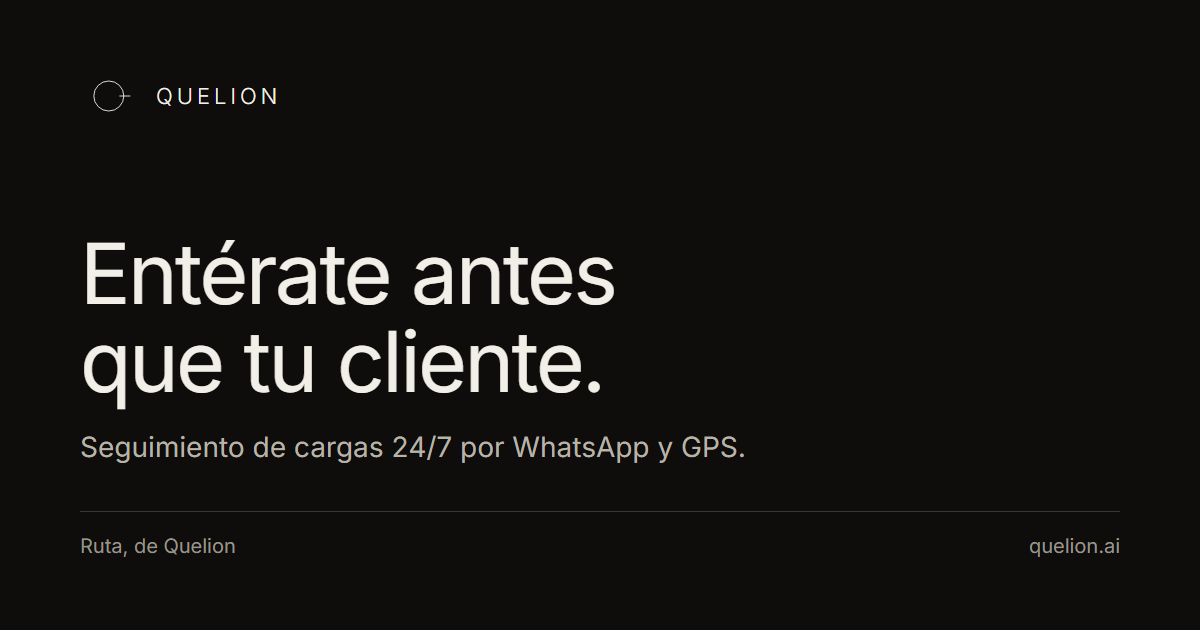
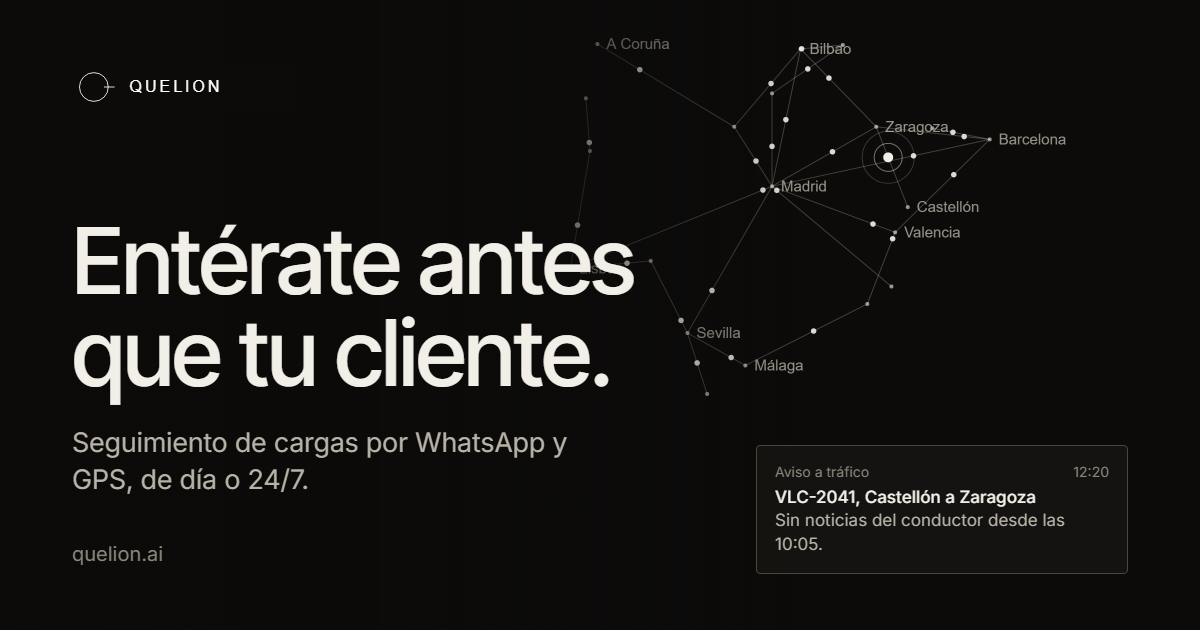
Página de Ruta con mapa de rutas y sección del conector para IA
- /ruta y /mx/ruta: mapa animado en la cabecera y sección «Ruta se conecta a la IA que ya usas».
- Imágenes de vista previa al compartir con el mapa, con versión para México.
- Cómo empezar: la puesta en marcha se cotiza aparte en la propuesta.

diff --git a/mx/ruta.html b/mx/ruta.html
@@ -11,7 +11,7 @@
   <link rel="alternate" hreflang="en" href="https://quelion.ai/ruta-en">
   <link rel="alternate" hreflang="x-default" href="https://quelion.ai/ruta">
   <meta property="og:title" content="Ruta · Entérate antes que tu cliente">
-  <meta property="og:image" content="https://quelion.ai/assets/og/og-ruta.png">
+  <meta property="og:image" content="https://quelion.ai/assets/og/og-ruta-mx.png">
   <meta property="og:image:width" content="1200">
   <meta property="og:image:height" content="630">
   <meta property="og:image:alt" content="Ruta, de Quelion. Entérate antes que tu cliente.">
@@ -27,6 +27,7 @@
   <link rel="stylesheet" href="/assets/css/tokens.css?v=20261121">
   <link rel="stylesheet" href="/assets/css/global.css?v=20261121">
   <link rel="stylesheet" href="/assets/css/components.css?v=20261121">
+  <link rel="stylesheet" href="/assets/css/ruta.css?v=20261121">
   <script type="application/ld+json">
   {
     "@context": "https://schema.org",
@@ -156,7 +157,8 @@
   </nav>
 
   <!-- ── HERO ── -->
-  <section class="hero" aria-labelledby="hero-headline">
+  <section class="hero rp-hero" aria-labelledby="hero-headline">
+    <canvas id="mapa" aria-hidden="true"></canvas>
     <div class="hero-content">
       <p class="eyebrow hero-eyebrow">Ruta · de Quelion</p>
       <h1 id="hero-headline" class="hero-headline">
@@ -176,6 +178,10 @@
         </a>
       </div>
       <p class="hero-contact">Sin app para tus choferes &nbsp;·&nbsp; o escríbenos a hola@quelion.ai</p>
+    </div>
+    <div class="rp-ficha" id="ficha" aria-hidden="true">
+      <div class="h"><span>Aviso al coordinador</span><span>12:20</span></div>
+      <b>NLD-2041, Nuevo Laredo a Monterrey</b><span class="q">Sin noticias del chofer desde las 10:05.</span>
     </div>
   </section>
 
@@ -325,6 +331,33 @@
     </div>
   </section>
 
+  <!-- ── CONECTOR PARA TU IA ── -->
+  <section id="ia" class="rp-ia" aria-labelledby="ia-heading">
+    <div class="section-inner">
+      <div class="rp-ia-grid">
+        <div>
+          <h2 id="ia-heading">Ruta se conecta a la IA que ya usas.</h2>
+          <p class="rp-lede">Con el conector de Ruta, Claude o ChatGPT consultan tu operación y actúan sobre ella con tu permiso. Y si tu IA ya tiene conectados tu correo, tu calendario o tus hojas, puedes pedirle cosas que lo cruzan todo: «da de alta los embarques del correo de esta mañana y dime cuáles llegan después de su cita».</p>
+          <ul class="rp-puede">
+            <li><b>Consultar</b>Qué viajes van en riesgo, el historial de uno y las cifras del periodo.</li>
+            <li><b>Dar de alta</b>Un embarque o un lote entero, con las mismas validaciones que el tablero.</li>
+            <li><b>Corregir</b>Las citas de carga y de entrega, o el teléfono del chofer.</li>
+            <li><b>Pausar y reanudar</b>El seguimiento de un viaje, con motivo y fecha de fin.</li>
+          </ul>
+        </div>
+        <div class="rp-chat" role="img" aria-label="Conversación de ejemplo con una IA conectada a Ruta.">
+          <div class="rp-chat-cab"><b>Tu asistente de IA</b><span>Conversación de ejemplo</span></div>
+          <div class="rp-hilo">
+            <p class="tu">¿Qué viajes van sin noticias esta mañana?</p>
+            <div class="ella"><span class="usa"><i></i>Ruta, resumen de la operación</span><br>Uno: <b>NLD-2041</b>, Aceros del Bajío, en tránsito. Sin noticias del chofer desde las 10:05. Ruta le avisó a tu coordinador a las 12:20.</div>
+            <p class="tu">Da de alta los 12 embarques de este Excel.</p>
+            <div class="ella"><span class="usa"><i></i>Ruta, revisar un lote</span><br>Revisados los 12: <b>entran 11</b>. La fila 7 no trae el teléfono del chofer. ¿Confirmo los 11?</div>
+          </div>
+        </div>
+      </div>
+    </div>
+  </section>
+
   <!-- ── CÓMO EMPEZAR (ancla #pricing conservada para enlaces antiguos) ── -->
   <section id="pricing" style="border-top:1px solid var(--border-hairline);padding:80px 0;" aria-labelledby="pricing-heading">
     <div class="section-inner">
@@ -343,7 +376,7 @@
         <div style="background:var(--surface-primary);padding:32px 28px;">
           <p style="font-family:var(--font-sans);font-size:12px;font-weight:500;color:var(--text-tertiary);font-variant-numeric:tabular-nums;margin-bottom:12px;">03</p>
           <h3 style="font-size:14px;font-weight:600;margin-bottom:10px;">Con la propuesta aceptada, lo configuramos contigo</h3>
-          <p style="font-size:13px;color:var(--text-secondary);margin:0;line-height:1.7;">Tus reglas, tus contactos y tus tiempos de seguimiento, ensayados en el túnel de viento antes de que Ruta le escriba al primer chofer. La puesta en marcha va incluida.</p>
+          <p style="font-size:13px;color:var(--text-secondary);margin:0;line-height:1.7;">Tus reglas, tus contactos y tus tiempos de seguimiento, ensayados en el túnel de viento antes de que Ruta le escriba al primer chofer. La puesta en marcha se cotiza aparte, en la misma propuesta.</p>
         </div>
       </div>
       <p style="font-size:13px;color:var(--text-quiet);margin-top:20px;">¿Prefieres escribir? <a href="mailto:hola@quelion.ai?subject=Agendar%2020%20minutos%20sobre%20Ruta" style="color:var(--text-primary);text-decoration:underline;">hola@quelion.ai</a></p>
@@ -498,6 +531,8 @@
     </div>
   </footer>
 
+  <script>window.MAPA_REGION = {"lat0":24,"C":{"Monterrey":[25.67,-100.31],"Nuevo Laredo":[27.48,-99.52],"CDMX":[19.43,-99.13],"Guadalajara":[20.67,-103.35],"Querétaro":[20.59,-100.39],"Saltillo":[25.42,-101],"San Luis Potosí":[22.15,-100.98],"Puebla":[19.04,-98.2],"Veracruz":[19.17,-96.13],"León":[21.12,-101.68],"Torreón":[25.54,-103.42],"Chihuahua":[28.63,-106.07],"Ciudad Juárez":[31.69,-106.42],"Tijuana":[32.51,-117.04],"Hermosillo":[29.07,-110.96],"Nogales":[31.31,-110.94],"Reynosa":[26.09,-98.28],"Culiacán":[24.81,-107.39],"Mazatlán":[23.25,-106.41],"Manzanillo":[19.05,-104.32],"Lázaro Cárdenas":[17.96,-102.19],"Mérida":[20.97,-89.62],"Aguascalientes":[21.88,-102.29],"Altamira":[22.39,-97.94]},"R":[["Nuevo Laredo","Monterrey"],["Monterrey","Saltillo"],["Saltillo","San Luis Potosí"],["San Luis Potosí","Querétaro"],["Querétaro","CDMX"],["CDMX","Puebla"],["Puebla","Veracruz"],["León","Querétaro"],["Guadalajara","León"],["Guadalajara","Manzanillo"],["Guadalajara","CDMX"],["Torreón","Saltillo"],["Chihuahua","Torreón"],["Ciudad Juárez","Chihuahua"],["Hermosillo","Nogales"],["Culiacán","Hermosillo"],["Mazatlán","Culiacán"],["Guadalajara","Mazatlán"],["Tijuana","Hermosillo"],["Reynosa","Monterrey"],["Altamira","San Luis Potosí"],["Lázaro Cárdenas","CDMX"],["Mérida","Veracruz"],["Aguascalientes","León"],["Aguascalientes","San Luis Potosí"],["Monterrey","Torreón"]],"rotulos":["Monterrey","Nuevo Laredo","CDMX","Guadalajara","Querétaro","Ciudad Juárez","Tijuana","Veracruz","Mérida","Manzanillo"],"rotulosMovil":["Monterrey","Nuevo Laredo","CDMX","Ciudad Juárez","Tijuana","Mérida"],"foco":["Nuevo Laredo","Monterrey"]};</script>
+  <script src="/assets/js/mapa-vivo.js?v=20261121" defer></script>
   <script src="/assets/js/main.js?v=20260926"></script>
 </body>
 </html>

diff --git a/ruta.html b/ruta.html
@@ -27,6 +27,7 @@
   <link rel="stylesheet" href="assets/css/tokens.css?v=20261121">
   <link rel="stylesheet" href="assets/css/global.css?v=20261121">
   <link rel="stylesheet" href="assets/css/components.css?v=20261121">
+  <link rel="stylesheet" href="assets/css/ruta.css?v=20261121">
   <script type="application/ld+json">
   {
     "@context": "https://schema.org",
@@ -149,7 +150,8 @@
   </nav>
 
   <!-- ── HERO ── -->
-  <section class="hero" aria-labelledby="hero-headline">
+  <section class="hero rp-hero" aria-labelledby="hero-headline">
+    <canvas id="mapa" aria-hidden="true"></canvas>
     <div class="hero-content">
       <p class="eyebrow hero-eyebrow">Ruta · de Quelion</p>
       <h1 id="hero-headline" class="hero-headline">
@@ -169,6 +171,10 @@
         </a>
       </div>
       <p class="hero-contact">Sin app para tus conductores &nbsp;·&nbsp; o escríbenos a hola@quelion.ai</p>
+    </div>
+    <div class="rp-ficha" id="ficha" aria-hidden="true">
+      <div class="h"><span>Aviso a tráfico</span><span>12:20</span></div>
+      <b>VLC-2041, Castellón a Zaragoza</b><span class="q">Sin noticias del conductor desde las 10:05.</span>
     </div>
   </section>
 
@@ -317,6 +323,33 @@
     </div>
   </section>
 
+  <!-- ── CONECTOR PARA TU IA ── -->
+  <section id="ia" class="rp-ia" aria-labelledby="ia-heading">
+    <div class="section-inner">
+      <div class="rp-ia-grid">
+        <div>
+          <h2 id="ia-heading">Ruta se conecta a la IA que ya usas.</h2>
+          <p class="rp-lede">Con el conector de Ruta, Claude o ChatGPT consultan tu operación y actúan sobre ella con tu permiso. Y si tu IA ya tiene conectados tu correo, tu calendario o tus hojas, puedes pedirle cosas que lo cruzan todo: «da de alta las cargas del correo de esta mañana y dime cuáles llegan después de su cita».</p>
+          <ul class="rp-puede">
+            <li><b>Consultar</b>Qué cargas van en riesgo, el historial de una y las cifras del periodo.</li>
+            <li><b>Dar de alta</b>Una carga o un lote entero, con las mismas validaciones que el panel.</li>
+            <li><b>Corregir</b>Las citas de carga y de entrega, o el teléfono del conductor.</li>
+            <li><b>Pausar y reanudar</b>El seguimiento de una carga, con motivo y fecha de fin.</li>
+          </ul>
+        </div>
+        <div class="rp-chat" role="img" aria-label="Conversación de ejemplo con una IA conectada a Ruta.">
+          <div class="rp-chat-cab"><b>Tu asistente de IA</b><span>Conversación de ejemplo</span></div>
+          <div class="rp-hilo">
+            <p class="tu">¿Qué cargas van sin noticias esta mañana?</p>
+            <div class="ella"><span class="usa"><i></i>Ruta, resumen de la operación</span><br>Una: <b>VLC-2041</b>, Cerámicas Levante, en tránsito. Sin noticias del conductor desde las 10:05. Ruta avisó a tráfico a las 12:20.</div>
+            <p class="tu">Da de alta las 12 cargas de este Excel.</p>
+            <div class="ella"><span class="usa"><i></i>Ruta, revisar un lote</span><br>Revisadas las 12: <b>entran 11</b>. La fila 7 no trae el teléfono del conductor. ¿Confirmo las 11?</div>
+          </div>
+        </div>
+      </div>
+    </div>
+  </section>
+
   <!-- ── CÓMO EMPEZAR (ancla #pricing conservada para enlaces antiguos) ── -->
   <section id="pricing" style="border-top:1px solid var(--border-hairline);padding:80px 0;" aria-labelledby="pricing-heading">
     <div class="section-inner">
@@ -335,7 +368,7 @@
         <div style="background:var(--surface-primary);padding:32px 28px;">
           <p style="font-family:var(--font-sans);font-size:12px;font-weight:500;color:var(--text-tertiary);font-variant-numeric:tabular-nums;margin-bottom:12px;">03</p>
           <h3 style="font-size:14px;font-weight:600;margin-bottom:10px;">Con la propuesta aceptada, lo configuramos contigo</h3>
-          <p style="font-size:13px;color:var(--text-secondary);margin:0;line-height:1.7;">Tus reglas, tus contactos y tus tiempos de seguimiento, ensayados en el túnel de viento antes de que Ruta escriba al primer conductor. La puesta en marcha va incluida.</p>
+          <p style="font-size:13px;color:var(--text-secondary);margin:0;line-height:1.7;">Tus reglas, tus contactos y tus tiempos de seguimiento, ensayados en el túnel de viento antes de que Ruta escriba al primer conductor. La puesta en marcha se cotiza aparte, en la misma propuesta.</p>
         </div>
       </div>
       <p style="font-size:13px;color:var(--text-quiet);margin-top:20px;">¿Prefieres escribir? <a href="mailto:hola@quelion.ai?subject=Agendar%2020%20minutos%20sobre%20Ruta" style="color:var(--text-primary);text-decoration:underline;">hola@quelion.ai</a></p>
@@ -483,6 +516,8 @@
     </div>
   </footer>
 
+  <script>window.MAPA_REGION = {"lat0":40,"C":{"Madrid":[40.42,-3.7],"Barcelona":[41.39,2.17],"Valencia":[39.47,-0.38],"Sevilla":[37.39,-5.98],"Zaragoza":[41.65,-0.89],"Bilbao":[43.26,-2.93],"Málaga":[36.72,-4.42],"Murcia":[37.99,-1.13],"Valladolid":[41.65,-4.72],"A Coruña":[43.36,-8.41],"Lisboa":[38.72,-9.14],"Oporto":[41.15,-8.61],"Castellón":[39.99,-0.04],"Lleida":[41.62,0.62],"Vigo":[42.24,-8.72],"Alicante":[38.35,-0.48],"Burgos":[42.34,-3.7],"Irún":[43.34,-1.79],"Algeciras":[36.13,-5.45],"Badajoz":[38.88,-6.97]},"R":[["Madrid","Barcelona"],["Madrid","Valencia"],["Madrid","Sevilla"],["Madrid","Bilbao"],["Madrid","Lisboa"],["Madrid","Valladolid"],["Barcelona","Valencia"],["Valencia","Murcia"],["Murcia","Málaga"],["Sevilla","Málaga"],["Zaragoza","Barcelona"],["Zaragoza","Madrid"],["Castellón","Zaragoza"],["Lleida","Barcelona"],["Bilbao","Valladolid"],["Bilbao","Irún"],["Burgos","Irún"],["Valladolid","A Coruña"],["Vigo","Oporto"],["Oporto","Lisboa"],["Sevilla","Badajoz"],["Badajoz","Lisboa"],["Algeciras","Sevilla"],["Alicante","Madrid"],["Burgos","Madrid"],["Zaragoza","Bilbao"]],"rotulos":["Madrid","Barcelona","Valencia","Sevilla","Zaragoza","Bilbao","Málaga","Lisboa","A Coruña","Castellón"],"rotulosMovil":["Madrid","Barcelona","Valencia","Sevilla","Bilbao","Lisboa","A Coruña","Castellón","Málaga"],"foco":["Castellón","Zaragoza"]};</script>
+  <script src="assets/js/mapa-vivo.js?v=20261121" defer></script>
   <script src="assets/js/main.js?v=20260926"></script>
 </body>
 </html>

diff --git a/assets/css/ruta.css b/assets/css/ruta.css
@@ -1,0 +1,58 @@
+/* Página de Ruta: mapa vivo en la cabecera y sección del conector. Solo tokens de tokens.css. */
+
+/* ── Cabecera con mapa ── */
+.rp-hero { overflow: hidden; }
+.rp-hero canvas { position: absolute; inset: 0; width: 100%; height: 100%; }
+.rp-hero::after {
+  content: ""; position: absolute; inset: 0; pointer-events: none;
+  background:
+    linear-gradient(90deg, var(--surface-primary) 0%, rgb(12 11 10 / .88) 32%, rgb(12 11 10 / 0) 62%),
+    linear-gradient(0deg, var(--surface-primary) 0%, rgb(12 11 10 / 0) 24%);
+}
+.rp-hero .hero-headline { font-weight: var(--weight-medium); }
+.rp-ficha {
+  position: absolute; z-index: 3; right: var(--grid-margin); bottom: var(--sp-64); width: 310px;
+  background: rgb(21 20 18 / .86); backdrop-filter: blur(10px); -webkit-backdrop-filter: blur(10px);
+  border: 1px solid var(--border-divider); border-radius: var(--radius-sm);
+  padding: 14px 16px; font-size: 14px; line-height: 1.4;
+  opacity: 0; transform: translateY(8px);
+  transition: opacity 500ms cubic-bezier(.2,0,0,1), transform 500ms cubic-bezier(.2,0,0,1);
+}
+.rp-ficha.ver { opacity: 1; transform: none; }
+.rp-ficha .h { display: flex; justify-content: space-between; font-size: 12px; color: var(--text-tertiary); margin-bottom: 4px; font-variant-numeric: tabular-nums; }
+.rp-ficha b { font-weight: var(--weight-medium); display: block; }
+.rp-ficha .q { display: block; color: var(--text-secondary); }
+
+/* ── Conector para la IA ── */
+.rp-ia { border-top: 1px solid var(--border-hairline); padding: 80px 0; background: var(--surface-secondary); }
+.rp-ia-grid { display: grid; grid-template-columns: minmax(0, 1fr) minmax(0, 1fr); gap: var(--sp-64); align-items: start; }
+.section-inner > .rp-ia-grid { max-width: none; }
+.rp-ia h2 { max-width: 14em; margin-bottom: var(--sp-24); }
+.rp-ia .rp-lede { font-size: 15px; line-height: 1.7; color: var(--text-secondary); max-width: 34em; margin: 0; }
+.rp-puede { list-style: none; padding: 0; margin: var(--sp-48) 0 0; display: grid; grid-template-columns: repeat(2, minmax(0, 1fr)); gap: var(--sp-16) var(--sp-40); font-size: 14px; line-height: 1.6; color: var(--text-secondary); }
+.rp-puede li { padding-top: var(--sp-16); border-top: 1px solid var(--border-hairline); }
+.rp-puede b { display: block; color: var(--text-primary); font-weight: var(--weight-medium); }
+.rp-chat { background: var(--surface-elevated); border: 1px solid var(--border-hairline); border-radius: var(--radius-sm); overflow: hidden; }
+.rp-chat-cab { display: flex; justify-content: space-between; align-items: baseline; gap: var(--sp-16); padding: 14px 20px; border-bottom: 1px solid var(--border-hairline); }
+.rp-chat-cab b { font-size: 14px; font-weight: var(--weight-semibold); letter-spacing: -0.01em; }
+.rp-chat-cab span { font-size: 13px; color: var(--text-tertiary); }
+.rp-hilo { padding: 20px; display: flex; flex-direction: column; gap: 14px; }
+.rp-hilo .tu { align-self: flex-end; max-width: 86%; margin: 0; background: var(--color-ink-300); border-radius: 14px 14px 3px 14px; padding: 10px 14px; font-size: 15px; line-height: 1.45; }
+.rp-hilo .ella { max-width: 92%; font-size: 15px; line-height: 1.5; color: var(--text-secondary); }
+.rp-hilo .ella b { color: var(--text-primary); font-weight: var(--weight-medium); }
+.rp-hilo .usa { display: inline-flex; align-items: center; gap: 8px; font-family: var(--font-mono); font-size: 12px; color: var(--text-tertiary); border: 1px solid var(--border-hairline); border-radius: 999px; padding: 3px 10px; margin-bottom: 8px; }
+.rp-hilo .usa i { width: 6px; height: 6px; border-radius: 50%; background: var(--text-secondary); }
+
+@media (max-width: 859px) {
+  .rp-hero .hero-content { padding-top: 460px; }
+  .rp-hero::after { background: linear-gradient(0deg, var(--surface-primary) 50%, rgb(12 11 10 / .5) 68%, rgb(12 11 10 / 0) 100%); }
+  .rp-ficha { left: var(--grid-margin); right: var(--grid-margin); width: auto; top: 360px; bottom: auto; }
+  .rp-ia-grid { grid-template-columns: minmax(0, 1fr); gap: var(--sp-40); }
+  .rp-puede { margin-top: var(--sp-32); }
+}
+@media (max-width: 520px) {
+  .rp-puede { grid-template-columns: minmax(0, 1fr); }
+}
+@media (prefers-reduced-motion: reduce) {
+  .rp-ficha { transition: none; }
+}

diff --git a/assets/js/mapa-vivo.js b/assets/js/mapa-vivo.js
@@ -1,0 +1,49 @@
+/* Mapa vivo: proyección equirrectangular de las ciudades reales; rutas en línea fina; cargas como puntos.
+   Espera window.MAPA_REGION, un <canvas id="mapa"> y, si existe, una ficha #ficha que aparece con el aviso. */
+(() => {
+  const REGION = window.MAPA_REGION, cv = document.getElementById('mapa');
+  if (!REGION || !cv || !cv.getContext) return;
+  const { lat0, C, R, rotulos, rotulosMovil, foco } = REGION;
+  const ficha = document.getElementById('ficha'), cx = cv.getContext('2d');
+  const reducido = matchMedia('(prefers-reduced-motion: reduce)').matches;
+  let W = 0, H = 0, raf = 0, t0 = 0, P = {}, visible = true;
+  const cargas = R.map((r, i) => ({ r: i, v: 0.035 + (i * 37 % 11) / 400, f: (i * 0.37) % 1, d: i % 2 ? 1 : -1 }));
+  const iFoco = R.findIndex((r) => r[0] === foco[0] && r[1] === foco[1]);
+  function medir() {
+    const dpr = Math.min(devicePixelRatio || 1, 2);
+    W = cv.clientWidth; H = cv.clientHeight; cv.width = W * dpr; cv.height = H * dpr; cx.setTransform(dpr, 0, 0, dpr, 0, 0);
+    const k = Math.cos(lat0 * Math.PI / 180), xs = [], ys = [];
+    for (const n in C) { xs.push(C[n][1] * k); ys.push(-C[n][0]); }
+    const x0 = Math.min(...xs), x1 = Math.max(...xs), y0 = Math.min(...ys), y1 = Math.max(...ys);
+    const caja = W < 860 ? { x: W * 0.07, y: 96, w: W * 0.80, h: Math.min(H * 0.30, 250) } : { x: W * 0.42, y: H * 0.14, w: W * 0.49, h: H * 0.70 };
+    const s = Math.min(caja.w / (x1 - x0), caja.h / (y1 - y0));
+    const ox = caja.x + (caja.w - (x1 - x0) * s) / 2, oy = caja.y + (caja.h - (y1 - y0) * s) / 2;
+    P = {}; for (const n in C) P[n] = [ox + (C[n][1] * k - x0) * s, oy + (-C[n][0] - y0) * s];
+  }
+  function pinta(ts) {
+    if (!t0) t0 = ts; const t = (ts - t0) / 1000;
+    cx.clearRect(0, 0, W, H);
+    cx.lineWidth = 1; cx.strokeStyle = 'rgba(242,239,232,0.2)';
+    for (const [a, b] of R) { cx.beginPath(); cx.moveTo(P[a][0], P[a][1]); cx.lineTo(P[b][0], P[b][1]); cx.stroke(); }
+    cx.fillStyle = 'rgba(242,239,232,0.55)';
+    for (const n in P) { cx.beginPath(); cx.arc(P[n][0], P[n][1], 1.6, 0, 6.3); cx.fill(); }
+    cx.font = '12px Inter, sans-serif'; cx.fillStyle = 'rgba(184,179,168,0.75)';
+    for (const n of (W < 860 ? rotulosMovil : rotulos)) { const w = cx.measureText(n).width; const izq = P[n][0] + 8 + w > W - 6; cx.fillText(n, izq ? P[n][0] - 8 - w : P[n][0] + 8, P[n][1] + 4); }
+    cargas.forEach((c, i) => {
+      const [a, b] = R[c.r];
+      let f = (c.f + t * c.v) % 1; if (c.d < 0) f = 1 - f;
+      if (i === iFoco) f = Math.min(0.62, 0.18 + t * 0.075);
+      const x = P[a][0] + (P[b][0] - P[a][0]) * f, y = P[a][1] + (P[b][1] - P[a][1]) * f;
+      if (i === iFoco) {
+        if (t > 6) { const q = ((t - 6) % 2.4) / 2.4; cx.beginPath(); cx.arc(x, y, 5 + q * 22, 0, 6.3); cx.strokeStyle = 'rgba(242,239,232,' + (0.5 * (1 - q)) + ')'; cx.stroke(); }
+        cx.beginPath(); cx.arc(x, y, 4, 0, 6.3); cx.fillStyle = '#F2EFE8'; cx.fill();
+        if (ficha) ficha.classList.toggle('ver', t > 9);
+      } else { cx.beginPath(); cx.arc(x, y, 2.2, 0, 6.3); cx.fillStyle = 'rgba(242,239,232,0.9)'; cx.fill(); }
+    });
+    if (!reducido && visible) raf = requestAnimationFrame(pinta);
+  }
+  function arrancar() { cancelAnimationFrame(raf); medir(); if (reducido) { t0 = -12000; pinta(0); } else raf = requestAnimationFrame(pinta); }
+  addEventListener('resize', arrancar);
+  if ('IntersectionObserver' in window) new IntersectionObserver((e) => { const v = e[0].isIntersecting; if (v && !visible) { visible = true; raf = requestAnimationFrame(pinta); } else if (!v) { visible = false; cancelAnimationFrame(raf); } }).observe(cv);
+  arrancar();
+})();

diff --git a/mx/index.html b/mx/index.html
@@ -10,7 +10,7 @@
   <link rel="alternate" hreflang="es-MX" href="https://quelion.ai/mx/">
   <link rel="alternate" hreflang="x-default" href="https://quelion.ai/">
   <meta property="og:title" content="Quelion · Entérate antes que tu cliente">
-  <meta property="og:image" content="https://quelion.ai/assets/og/og-quelion.png">
+  <meta property="og:image" content="https://quelion.ai/assets/og/og-quelion-mx.png">
   <meta property="og:image:width" content="1200">
   <meta property="og:image:height" content="630">
   <meta property="og:image:alt" content="Quelion. Entérate antes que tu cliente.">
